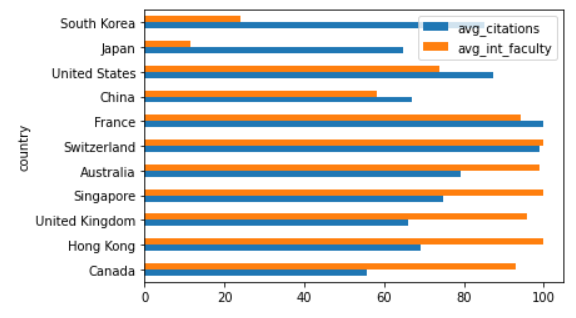
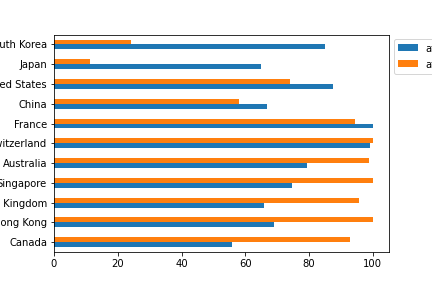
Updating Q16 image

diff --git a/p13/README.md b/p13/README.md
@@ -288,13 +288,17 @@ Your image should look like this:
 
 ### #Q16: In the year 2018, among the institutions ranked within the top 50, generate a barplot visualizing the average of `citations_per_faculty` and `international_faculty` for each country. (answer with a plot)
 
-**Note** : You need to answer with a **horizontal bar plot**. You should define columns `avg_citations` and `avg_int_faculty` representing the average value of `citations_per_faculty` and `international_faculty` for each country respectively. Put `country` on the x-axis and `avg_citations` and `avg_int_faculty` on the y-axis. Make sure your plot has a legend, however the position of the legend doesn't matter. Make sure the countries appear in *decreasing* order of the difference between `avg_citations` and `avg_int_faculty`. The colors don't matter either.
-
-**Warning:** `test.py` can only detect if you have a plot here, not if it is correct. So compare your plot with the plot here, and ensure that it matches, so you don't lose points during code review.
+**Note** : You need to answer with a **horizontal bar plot**. You should define columns `avg_citations` and `avg_int_faculty` representing the average value of `citations_per_faculty` and `international_faculty` for each country respectively. Put `country` on the x-axis and `avg_citations` and `avg_int_faculty` on the y-axis. Make sure the countries appear in *decreasing* order of the difference between `avg_citations` and `avg_int_faculty`. Make sure your plot has a legend, however the position of the legend doesn't matter (see below optional section note about legend position). The colors don't matter either.
 
 Your image should look like this:
 
 <img src="images/Q16.png" width="400">
+
+**Optional:** Finding a correct position for legend will take exploration for every plot. You can invoke `legend` function using AxesSubplot object instance. There are two configurable parameters: `loc` and `bbox_to_anchor`. You can read the [`legend()`](https://matplotlib.org/stable/api/_as_gen/matplotlib.pyplot.legend.html) documentation, to learn the details. In order to produce the above plot, we used the below settings:
+
+```python
+ax.legend(loc = 'center left', bbox_to_anchor = (1, 0.9))
+```
 
 ---
 ### Fitting a regression line.
@@ -330,8 +334,6 @@ df.plot.line(x='x', y='fit', c='red', ax=ax)
 
 **Hint:** You can adapt the above code so that it uses your DataFrame (instead of df) and replace `x` with `overall_score` and `y` with `rank`.
 
-**Warning:** `test.py` can only detect if you have a plot here, not if it is correct. So compare your plot with the plot here, and ensure that it matches, so you don't lose points during code review.
-
 Your image should look like this:
 
 <img src="images/Q17.png" width="400">
@@ -341,8 +343,6 @@ Your image should look like this:
 ### #Q18: For all the institutions in the year 2020, what is the relationship between  `1 / overall_score` and `rank`? (answer with a plot)
 
 **Note:** Your output should be a **scatter plot with a regression line** where each **institution** is represented as a point with with `inverse_overall_score` on the x-axis and `rank` on the y-axis.
-
-**Warning:** `test.py` can only detect if you have a plot here, not if it is correct. So compare your plot with the plot here, and ensure that it matches, so you don't lose points during code review.
 
 Your image should look like this:
 
@@ -365,8 +365,6 @@ Your image should look like this:
 **Note:** Your output should be a **pie chart**. The colors on the pie chart don't matter, but the chart should be titled `Number of institutions`, and should be labelled as in the sample output below. Make use of the output of Q3 here.
 
 **Hint:** Use [df.plot.pie](https://pandas.pydata.org/docs/reference/api/pandas.DataFrame.plot.pie.html) to plot your graph.
-
-**Warning:** `test.py` can only detect if you have a plot here, not if it is correct. So compare your plot with the plot here, and ensure that it matches, so you don't lose points during code review.
 
 Your image should look like this:
 
